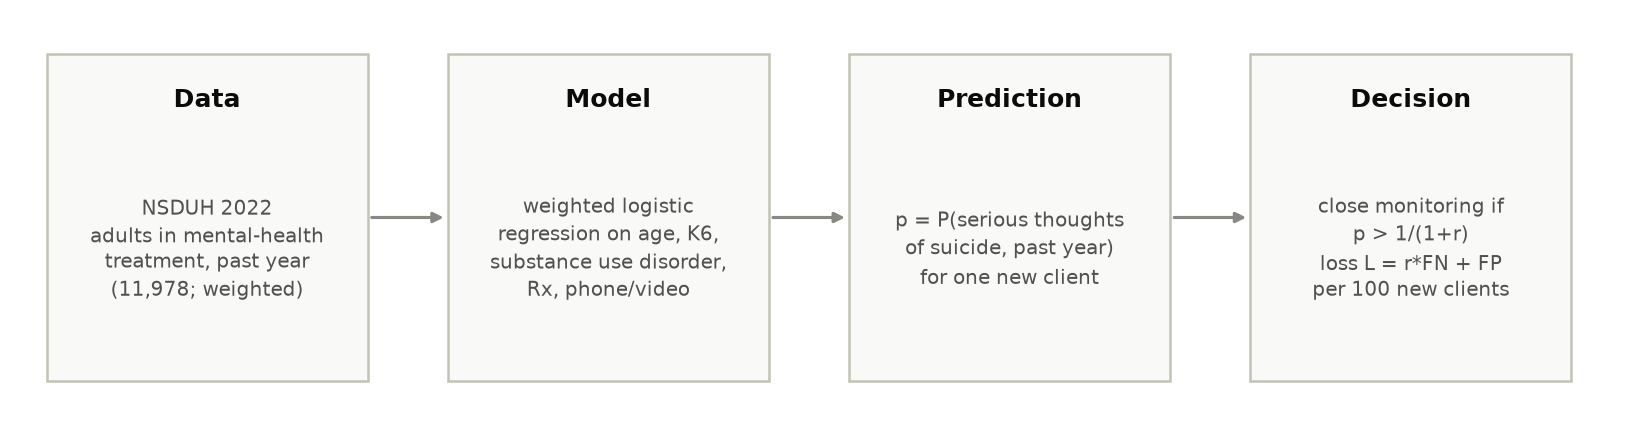
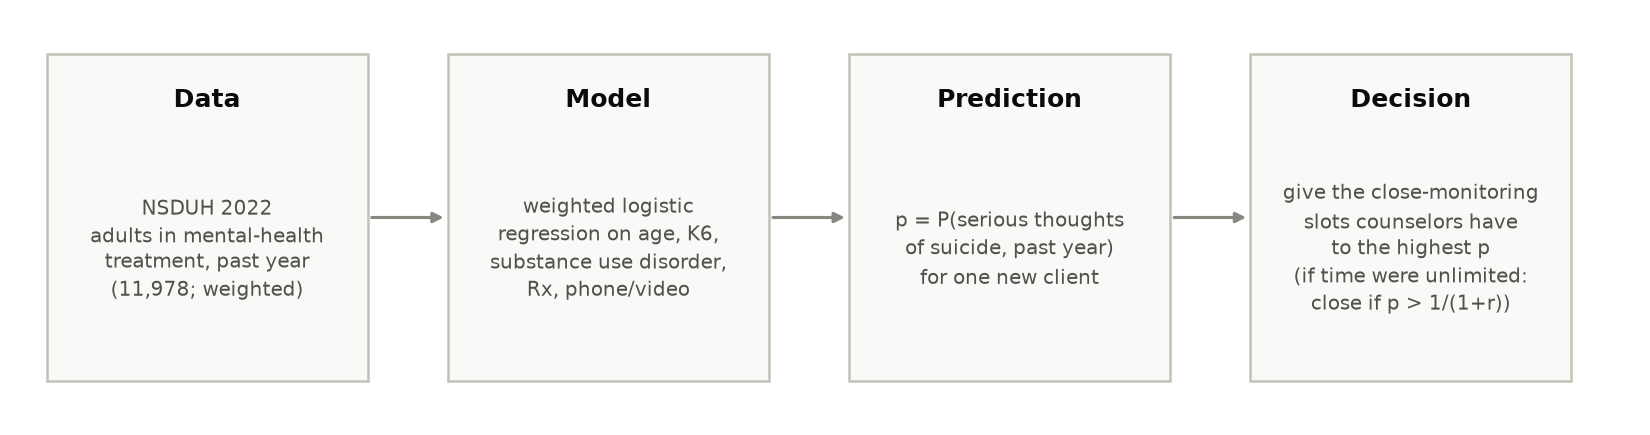
Tick the checklist and match the layer diagram to the capacity rule.
The diagram's decision box now gives the close-monitoring slots to the
highest predicted risk, with the r threshold as the unlimited-time case.
The notebook was rerun from the top. The pull-request line stays unticked:
I worked alone, which the README allows.

Changed region(s): [[0.7727, 0.4184, 0.9273, 0.7172]]

diff --git a/CHECKLIST.md b/CHECKLIST.md
@@ -4,58 +4,59 @@ Tick every line that the pushed `main` covers. A line you cannot tick needs one 
 
 ## 1. Question
 
-- [ ] The question is one sentence, then one quantity with units and a time window.
-- [ ] The decision is named, and the loss or profit is a formula. The costlier mistake is named.
-- [ ] A layer diagram: data, model, prediction, decision.
+- [x] The question is one sentence, then one quantity with units and a time window.
+- [x] The decision is named, and the loss or profit is a formula. The costlier mistake is named.
+- [x] A layer diagram: data, model, prediction, decision.
 
 ## 2. Data
 
-- [ ] Source, unit of observation, sample size, time span, and how it was collected.
-- [ ] How the measurement differs from the quantity the decision needs, and whether that gap is bias or noise.
-- [ ] One plot of the raw data and one table of summary statistics, before any model.
+- [x] Source, unit of observation, sample size, time span, and how it was collected.
+- [x] How the measurement differs from the quantity the decision needs, and whether that gap is bias or noise.
+- [x] One plot of the raw data and one table of summary statistics, before any model.
 
 ## 3. Model
 
-- [ ] The model as equations. Each parameter in words, and the mechanism it stands for.
-- [ ] The assumptions, and the one you trust least.
-- [ ] Simulated data from the model, checked against the real data. If the fit can recover known parameters, show that it does.
+- [x] The model as equations. Each parameter in words, and the mechanism it stands for.
+- [x] The assumptions, and the one you trust least.
+- [x] Simulated data from the model, checked against the real data. If the fit can recover known parameters, show that it does.
 
 ## 4. Uncertainty
 
-- [ ] Every prediction carries a standard error, an interval, or a predictive distribution.
-- [ ] The error is measured out of sample, and you say how it grows as the forecast moves further from the data.
-- [ ] Residuals plotted against time or against the prediction, and a statement of whether the error looks like noise or like bias.
+- [x] Every prediction carries a standard error, an interval, or a predictive distribution.
+- [x] The error is measured out of sample, and you say how it grows as the forecast moves further from the data.
+- [x] Residuals plotted against time or against the prediction, and a statement of whether the error looks like noise or like bias.
 
 ## 5. Decision
 
-- [ ] An explicit rule from the prediction to the action, and why the loss picks that rule.
-- [ ] How the action changes when the main inputs change.
-- [ ] What a better model or more data would be worth, in the units of the loss.
+- [x] An explicit rule from the prediction to the action, and why the loss picks that rule.
+- [x] How the action changes when the main inputs change.
+- [x] What a better model or more data would be worth, in the units of the loss.
 
 ## 6. Evaluation
 
-- [ ] A held-out set the model never saw, and a calibration check.
-- [ ] The method scored against a simple baseline in the units of the decision, not only RMSE or R².
-- [ ] Where the method wins, and where it ties.
+- [x] A held-out set the model never saw, and a calibration check.
+- [x] The method scored against a simple baseline in the units of the decision, not only RMSE or R².
+- [x] Where the method wins, and where it ties.
 
 ## Decisions
 
-- [ ] `decisions.md` is the history: each choice, why, the alternative rejected, and what would change it. Old entries are still in the file.
+- [x] `decisions.md` is the history: each choice, why, the alternative rejected, and what would change it. Old entries are still in the file.
 
 ## 7. Communicate
 
-- [ ] `presentation.html` is a title slide plus the action, the reason, the risk with a number, and the value of being less wrong. It was rendered from `presentation.qmd` after the last edit to that file.
-- [ ] The key effects are in plain language and in real units.
-- [ ] The limits: where the model should not be trusted, what was assumed, and what you would do with more time or data.
+- [x] `presentation.html` is a title slide plus the action, the reason, the risk with a number, and the value of being less wrong. It was rendered from `presentation.qmd` after the last edit to that file.
+- [x] The key effects are in plain language and in real units.
+- [x] The limits: where the model should not be trusted, what was assumed, and what you would do with more time or data.
 
 ## Repository
 
-- [ ] Names and GitHub usernames are in `README.md`.
+- [x] Names and GitHub usernames are in `README.md`.
 - [ ] A group reached `main` through pull requests, and each request names a `decisions.md` entry.
-- [ ] `requirements.txt` pins the packages, and `.python-version` is the interpreter that ran the notebook. An R project uses `renv.lock` instead, which records the R version.
-- [ ] The `data` release holds the data files, or `data/README.md` gives the command that downloads them from the source. Each file has a SHA-256 there, and the notebook checks it. The notebook on `main` was run from the top and committed with its outputs. Secrets and fitted weights are not in git.
-- [ ] The split entry in `decisions.md` records the cutoff date, or the seed and the fraction.
+  Not ticked: I worked alone, and the README lets a person working alone commit to `main` without pull requests. Each commit message says why, and the `decisions.md` entries carry the choices.
+- [x] `requirements.txt` pins the packages, and `.python-version` is the interpreter that ran the notebook. An R project uses `renv.lock` instead, which records the R version.
+- [x] The `data` release holds the data files, or `data/README.md` gives the command that downloads them from the source. Each file has a SHA-256 there, and the notebook checks it. The notebook on `main` was run from the top and committed with its outputs. Secrets and fitted weights are not in git.
+- [x] The split entry in `decisions.md` records the cutoff date, or the seed and the fraction.
 
 ## Disclosure
 
-- [ ] One line in `README.md`: which AI tools you used, and for what.
+- [x] One line in `README.md`: which AI tools you used, and for what.
